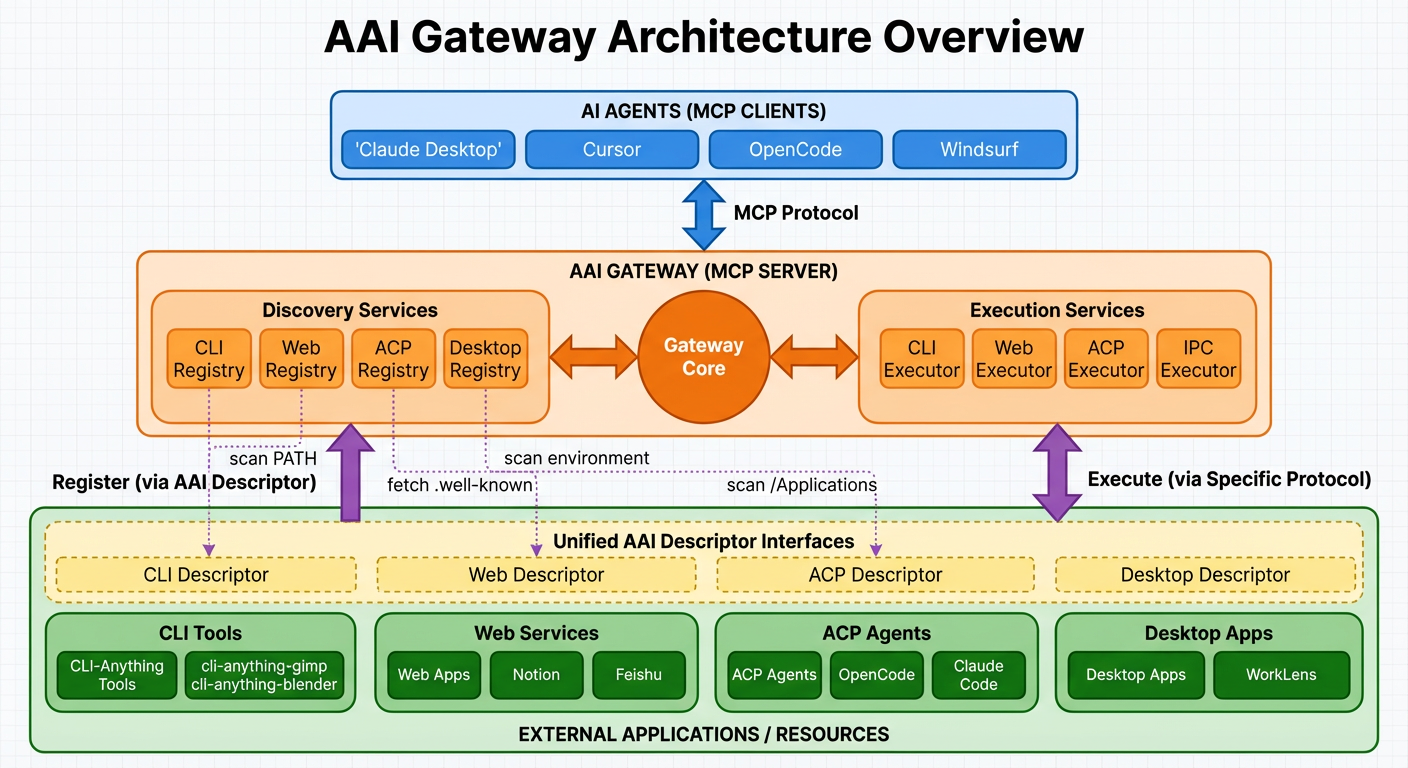
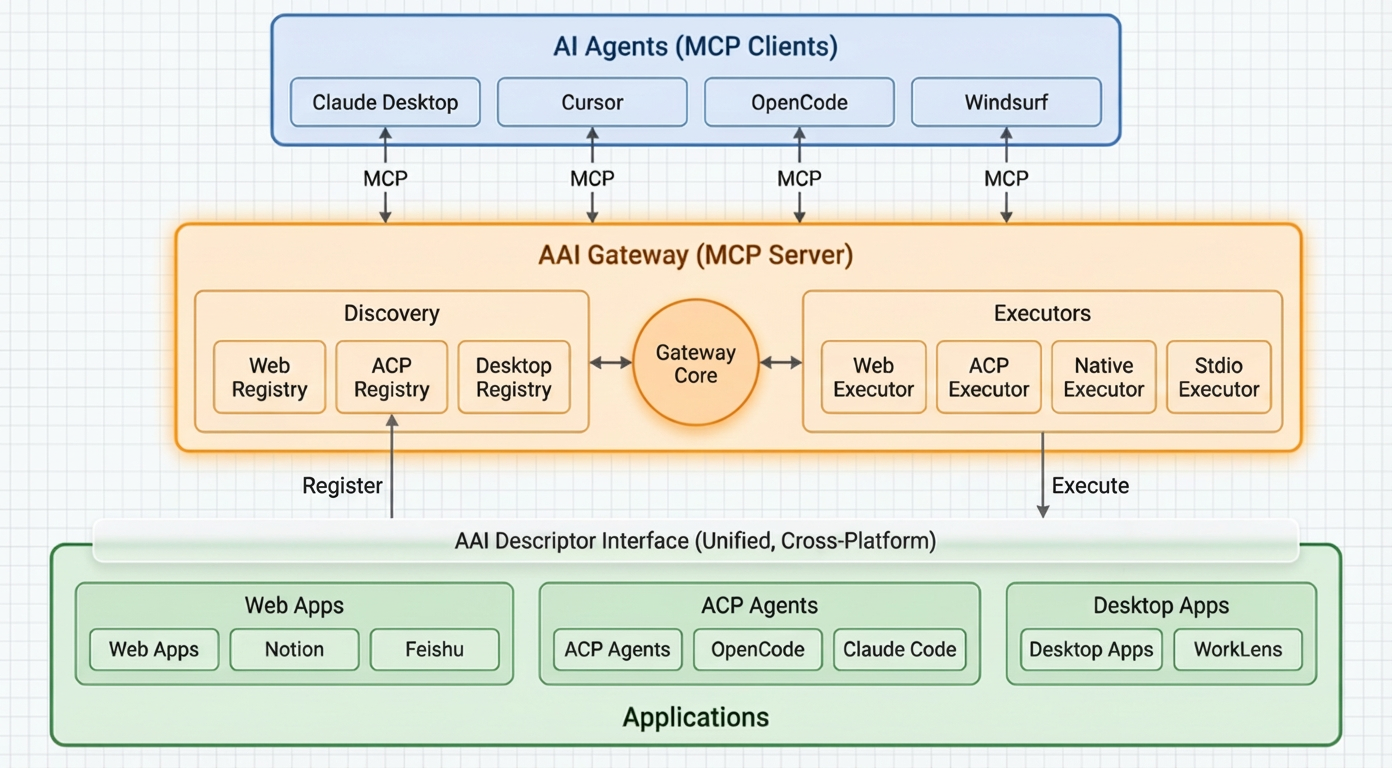
Replace README architecture diagram

diff --git a/README.md b/README.md
@@ -23,75 +23,7 @@
 
 ## Architecture
 
-```mermaid
-graph TB
-    subgraph "AI Agents (MCP Clients)"
-        A1[Claude Desktop]
-        A2[Cursor]
-        A3[OpenCode]
-        A4[Windsurf]
-    end
-
-    subgraph "AAI Gateway (MCP Server)"
-        G[Gateway Core]
-
-        subgraph "Discovery"
-            D1[Web Registry]
-            D2[ACP Registry]
-            D3[Desktop Registry]
-        end
-
-        subgraph "Executors"
-            E1[Web Executor]
-            E2[ACP Executor]
-            E3[Native Executor]
-            E4[Stdio Executor]
-        end
-
-        G --> E1
-        G --> E2
-        G --> E3
-        G --> E4
-        G --> D1
-        G --> D2
-        G --> D3
-    end
-
-    subgraph "Applications"
-        WEB1[Web Apps]
-        WEB2[Notion]
-        WEB3[Feishu]
-
-        ACP1[ACP Agents]
-        ACP2[OpenCode]
-        ACP3[Claude Code]
-
-        DESK1[Desktop Apps]
-        DESK2[WorkLens]
-    end
-
-    A1 -->|MCP| G
-    A2 -->|MCP| G
-    A3 -->|MCP| G
-    A4 -->|MCP| G
-
-    E1 -->|HTTPS + OAuth2| WEB1
-    E1 --> WEB2
-    E1 --> WEB3
-
-    E2 -->|stdio JSON-RPC| ACP1
-    E2 --> ACP2
-    E2 --> ACP3
-
-    E3 -->|Apple Events, DBus, COM| DESK1
-    E3 --> DESK2
-
-    E4 -.->|JSON over stdio, planned| DESK1
-
-    D1 -.->|fetch .well-known| WEB1
-    D2 -.->|which command| ACP1
-    D3 -.->|scan /Applications| DESK1
-```
+![AAI Gateway Architecture](./images/architecture.png)
 
 ---
 
